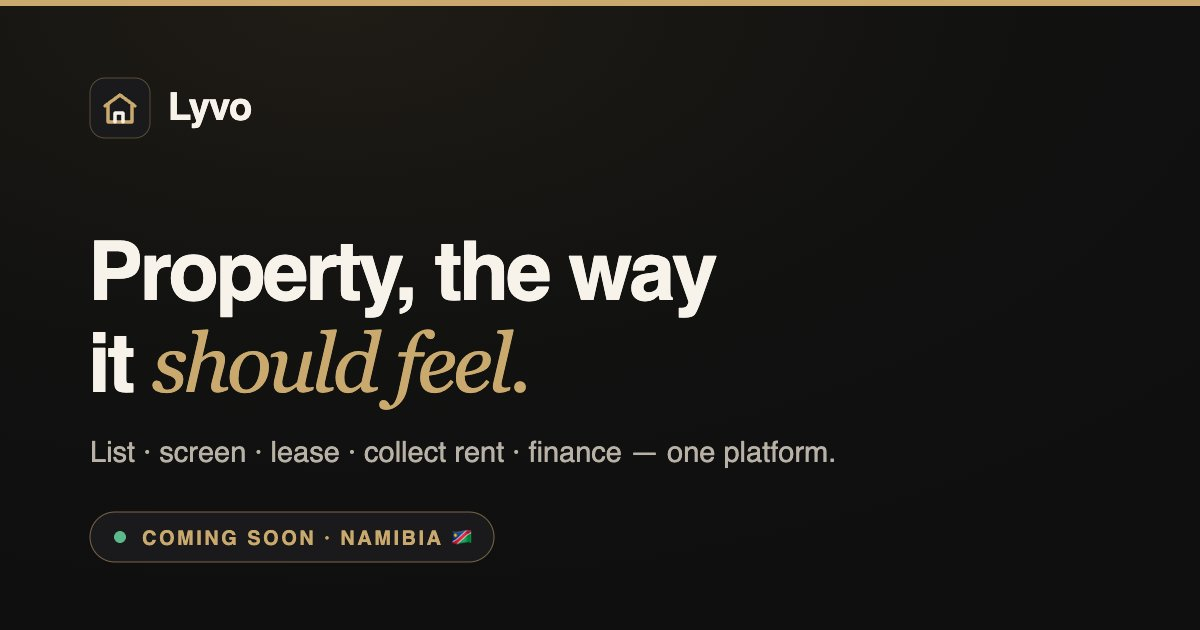
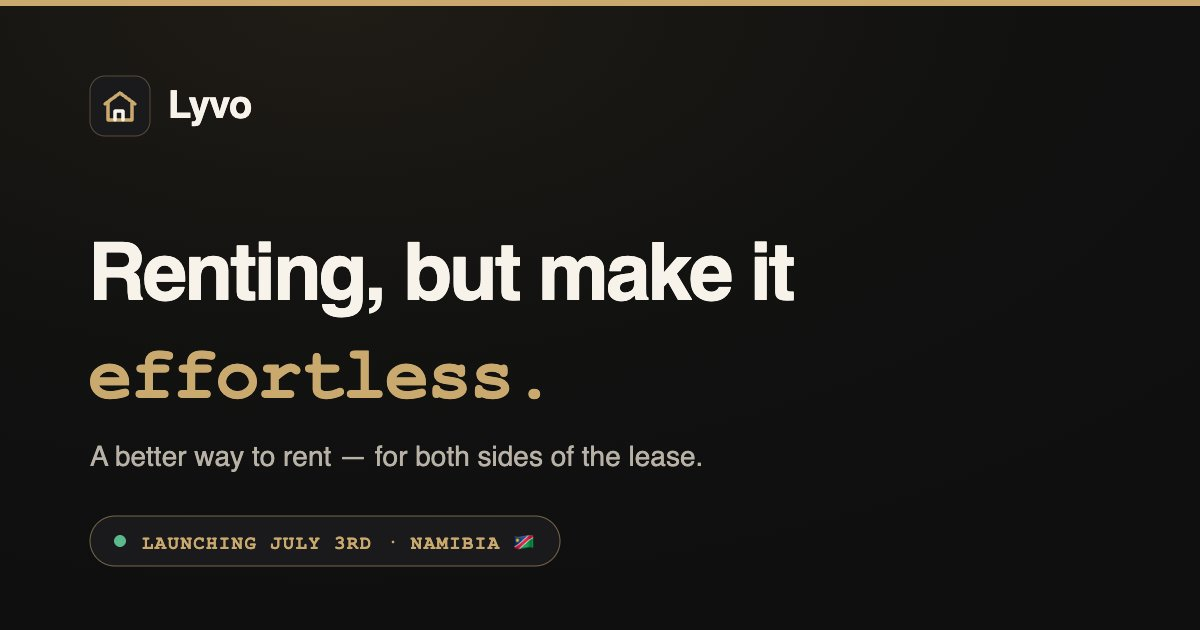
seo: richer structured data, og:image:alt/robots/locale meta, sitemap lastmod, refreshed OG share image

diff --git a/index.html b/index.html
@@ -102,6 +102,8 @@
 <link rel="canonical" href="https://ly-vo.app/" />
 <link rel="icon" href="favicon.svg" type="image/svg+xml" />
 <meta name="theme-color" content="#0F0F10" />
+<meta name="robots" content="index, follow, max-image-preview:large, max-snippet:-1" />
+<meta name="author" content="Lyvo" />
 <meta property="og:type" content="website" />
 <meta property="og:site_name" content="Lyvo" />
 <meta property="og:title" content="Lyvo — property management & rentals for Namibia" />
@@ -110,15 +112,18 @@
 <meta property="og:image" content="https://ly-vo.app/og.jpg" />
 <meta property="og:image:width" content="1200" />
 <meta property="og:image:height" content="630" />
+<meta property="og:image:alt" content="Lyvo — a better way to rent, launching July 3rd in Namibia" />
+<meta property="og:locale" content="en_NA" />
 <meta name="twitter:card" content="summary_large_image" />
 <meta name="twitter:title" content="Lyvo — property management & rentals for Namibia" />
 <meta name="twitter:description" content="list it, rent it, get paid — and get rewarded for it. one app for landlords and renters in namibia. ✨" />
 <meta name="twitter:image" content="https://ly-vo.app/og.jpg" />
+<meta name="twitter:image:alt" content="Lyvo — a better way to rent, launching July 3rd in Namibia" />
 <script type="application/ld+json">
-{"@context":"https://schema.org","@type":"Organization","name":"Lyvo","url":"https://ly-vo.app/","logo":"https://ly-vo.app/favicon.svg","description":"The all-in-one property operating and financing platform for Namibia.","areaServed":"NA"}
+{"@context":"https://schema.org","@type":"Organization","name":"Lyvo","url":"https://ly-vo.app/","logo":"https://ly-vo.app/email-logo.png","image":"https://ly-vo.app/og.jpg","email":"hello@ly-vo.app","slogan":"A better way to rent, for both sides of the lease.","description":"Lyvo is an all-in-one property platform for Namibia. Landlords screen tenants, run viewings, sign compliant leases and collect rent, while renters find verified homes and earn rewards.","areaServed":{"@type":"Country","name":"Namibia"}}
 </script>
 <script type="application/ld+json">
-{"@context":"https://schema.org","@type":"WebSite","name":"Lyvo","url":"https://ly-vo.app/"}
+{"@context":"https://schema.org","@type":"WebSite","name":"Lyvo","url":"https://ly-vo.app/","inLanguage":"en"}
 </script>
 </head>
 <body>
